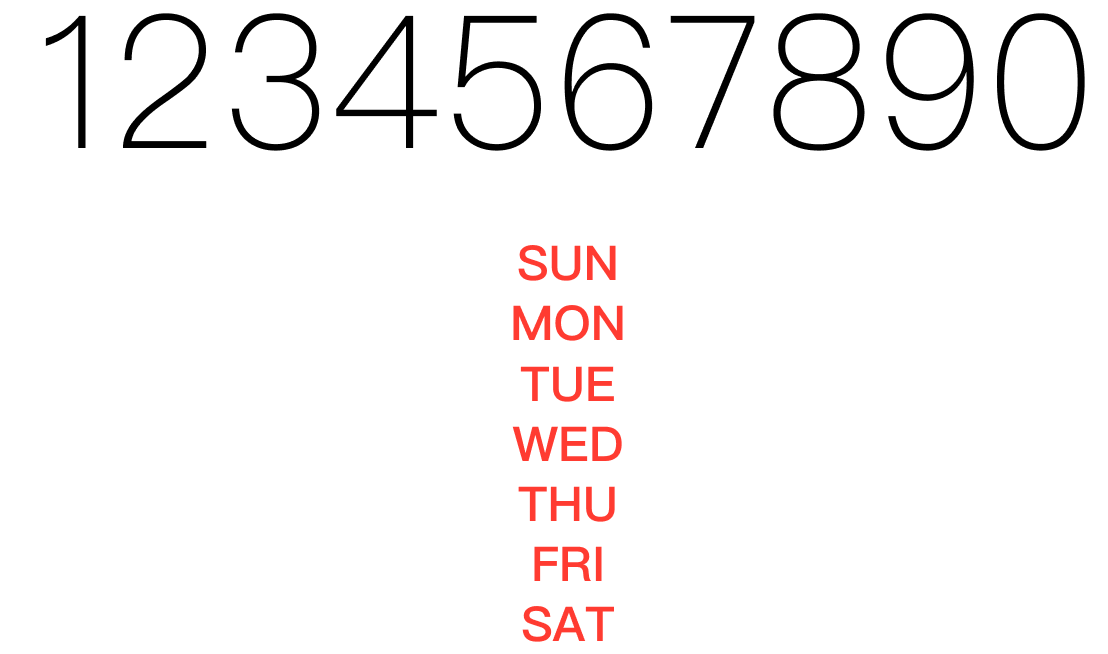
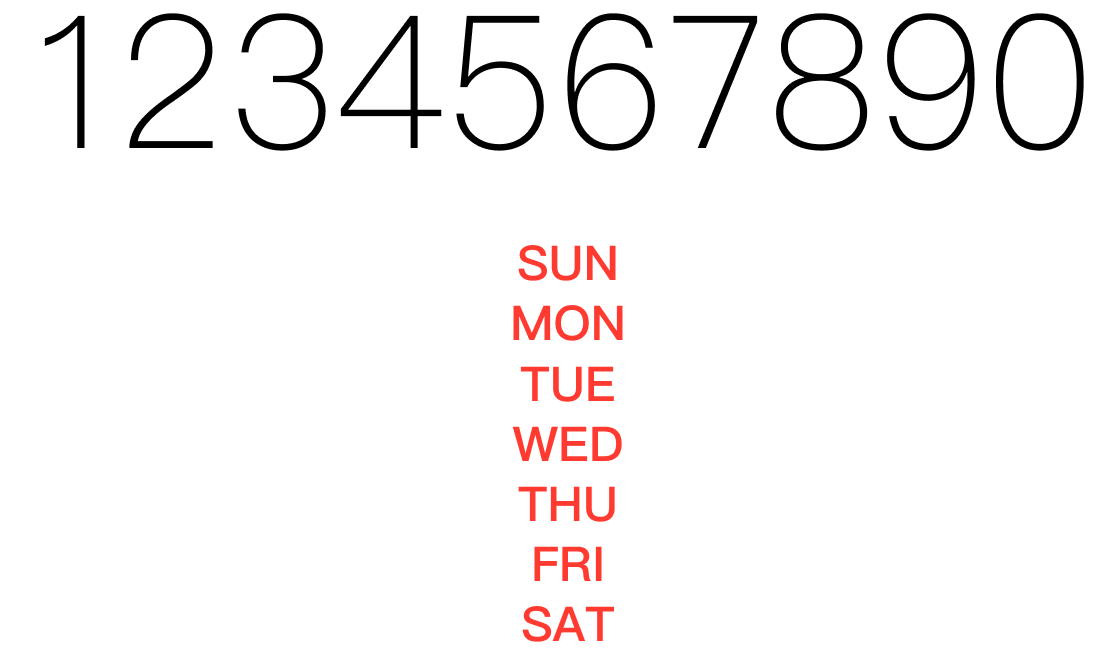
修复 Calendar 绘制日期/星期偏移

diff --git a/app/src/popup.js b/app/src/popup.js
@@ -14,6 +14,9 @@ const ICLOUD_DOMAIN = (() => {
     return lang === 'zh-CN' ? 'icloud.com.cn' : 'icloud.com';
 })();
 
+// mock 的日期
+const MOCK_TEST_TIME = ''; // '2026-05-01'
+
 // 应用路径映射（新版 iCloud URL 格式）
 const APP_PATHS = new Map([
     ['mail', '/mail'],
@@ -54,7 +57,7 @@ const DAY_SPRITE = {
     sx: 230 * 2,   // 源图 x 偏移
     sw: 340 * 2,   // 源图裁剪宽
     sh: 30 * 2,    // 源图裁剪高
-    dx: 10,        // 目标 x
+    dx: 12,        // 目标 x
     dy: 11,        // 目标 y
     dw: 160,       // 目标宽
     dh: 15         // 目标高
@@ -166,7 +169,7 @@ class CalendarDrawer {
         // 绘制日历背景（完整背景图，适配主题）
         this.#ctx.drawImage(bgImg, 0, 0, CANVAS_SIZE, CANVAS_SIZE);
 
-        const now = new Date();
+        const now = MOCK_TEST_TIME ? new Date(MOCK_TEST_TIME) : new Date();
         const day = now.getDay();
         const date = now.getDate();
 

diff --git a/CHANGELOG.md b/CHANGELOG.md
@@ -2,6 +2,10 @@
 
 > 变更类型：⚠ 非兼容变更，🎉 功能新增，🔧 代码优化，🐞 问题修复，⬆ 依赖升级，📝 文档更新
 
+## 3.3.2（2026-05-01）
+
+🐞 修复 Calendar 绘制日期/星期偏移
+
 ## 3.3.1（2026-04-27）
 
 🔧 代码优化，去除 jQuery 依赖
